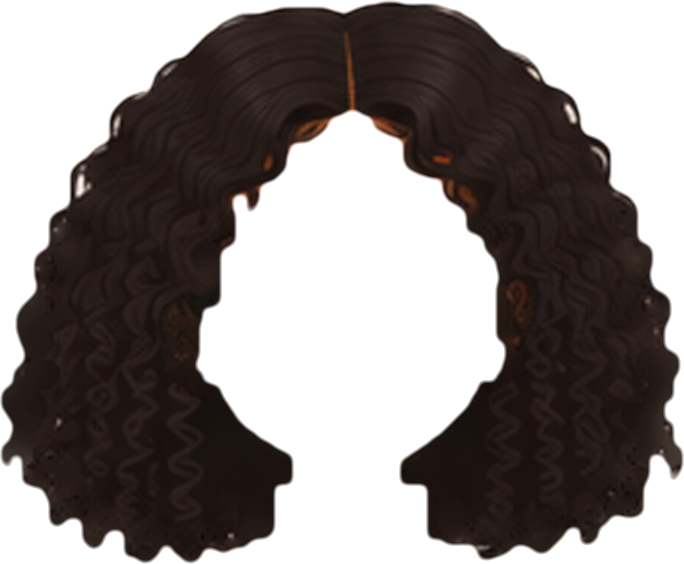
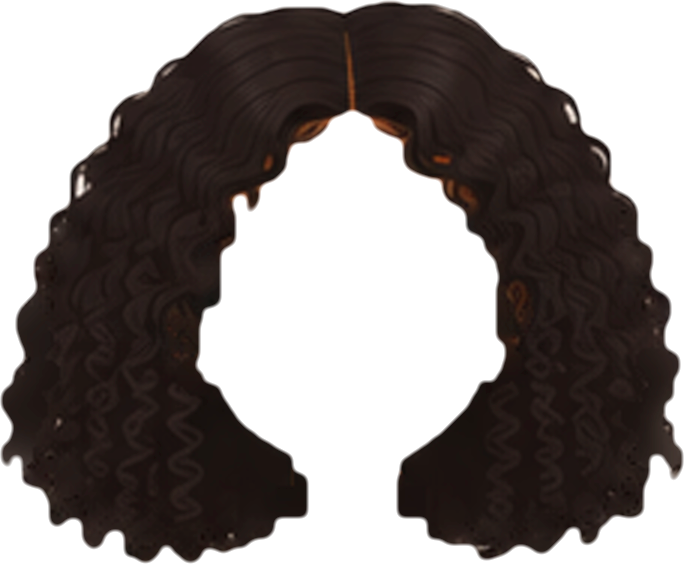
Carré bouclé : vides sous la mâchoire bouchés jusqu'au cou
Claude-Session: https://claude.ai/code/session_01Vs8WE84NbYT2qCXEQSttrj

Changed region(s): [[0.5526, 0.844, 0.6447, 0.9344], [0.3991, 0.8138, 0.4605, 0.9344]]

diff --git a/js/coiffures-art.js b/js/coiffures-art.js
@@ -1,2 +1,2 @@
 /* formes décalquées par tools/traceur-coiffures.py sur docs/references/coiffures/ — ne pas modifier à la main */
-const HAIR_ART={"longs":{"img":[61.76,56.98,276.48,530.04],"lum":[0.079,0.145,0.33],"fcut":[345,136],"main":"#2f2420","back":[["sil","M76.6,307.2 76.4,323.2 73.5,334.3 73.5,350.9 70.5,357.7 70.5,364.1 72.0,368.0 72.2,374.9 75.3,376.5 76.4,378.4 74.9,385.0 324.9,385.0 323.4,378.4 324.5,376.5 327.6,374.9 327.8,368.0 329.3,364.1 329.3,357.7 326.4,350.9 326.4,334.3 323.4,323.2 323.4,308.0 321.8,303.2 78.0,303.2Z","#211815"]],"front":[["sil","","#2f2420"]]},"carrelisse":{"img":[64.24,52.26,260.24,271.92],"lum":[0.075,0.147,0.377],"main":"#29201c","back":[["sil","","#1a1411"]],"front":[["sil","","#29201c"]]},"queuehaute2":{"img":[95.53,4.04,242.49,372.16],"lum":[0.081,0.152,0.38],"ears":1,"main":"#281e1b","back":[["sil","","#1c1613"]],"front":[["sil","","#281e1b"]]},"mechesdevant":{"img":[52.66,40.92,292.88,450.58],"lum":[0.066,0.132,0.372],"main":"#2b211d","back":[["sil","M64.8,297.4 64.8,308.7 61.3,313.7 61.3,317.6 59.6,322.1 59.6,329.7 57.9,334.2 57.9,343.6 56.1,348.1 56.1,353.9 52.7,367.2 52.7,379.7 54.2,381.9 76.9,382.1 76.9,392.1 73.5,405.3 73.5,411.1 71.7,415.7 71.7,423.3 70.0,427.8 70.0,452.7 71.7,457.3 71.9,462.3 76.5,473.3 86.7,483.9 96.9,486.5 103.4,491.3 287.7,491.3 294.2,486.5 299.6,485.7 306.5,482.2 315.0,474.0 320.8,458.8 321.1,448.6 322.8,444.1 322.8,436.5 321.1,431.9 321.1,420.9 319.3,416.3 319.3,407.0 317.6,402.5 317.6,394.9 315.9,390.3 315.9,383.8 343.8,383.6 345.3,381.5 345.3,370.6 343.6,366.1 343.6,362.0 341.9,357.4 341.9,353.3 338.4,340.1 338.4,334.2 334.9,321.0 334.9,311.7 333.2,307.2 333.2,301.3 331.7,297.4Z","#1a1411"]],"front":[["sil","","#2b211d"]]},"frangedroite":{"img":[73.46,44.39,265.15,443.65],"lum":[0.071,0.146,0.373],"main":"#291f1c","back":[["sil","M77.6,297.6 76.9,324.5 75.2,329.0 75.2,340.1 76.9,344.6 76.9,353.7 73.5,358.7 73.5,369.5 76.3,373.7 281.2,374.1 281.4,412.9 283.1,417.4 283.1,449.3 284.9,453.8 285.3,485.0 290.5,487.8 331.0,487.8 338.0,485.0 338.4,471.1 336.7,466.6 336.7,446.9 334.9,442.3 334.9,429.6 333.2,425.0 333.2,415.7 331.5,411.1 331.5,400.1 329.7,395.5 329.7,388.0 328.0,383.4 328.0,356.8 326.3,352.2 326.3,341.2 324.5,336.6 324.5,318.6 322.8,314.1 322.8,299.6 321.9,297.4Z","#191310"]],"front":[["sil","","#291f1c"]]},"chignonhaut2":{"img":[88.56,-28.55,213.5,337.75],"lum":[0.102,0.159,0.406],"ears":1,"main":"#2d241f","back":[["sil","","#241b18"]],"front":[["sil","","#2d241f"]]},"raiecotel":{"img":[45.39,39.7,268.92,446.25],"lum":[0.074,0.142,0.34],"main":"#271f1d","back":[["sil","M62.7,479.8 65.2,483.5 71.5,485.7 126.4,485.7 129.9,483.3 130.3,472.4 125.1,455.5 125.1,451.4 123.3,446.8 123.3,440.9 121.6,436.3 121.6,425.1 119.8,420.5 119.8,407.6 118.1,403.0 118.1,374.4 116.8,370.0 313.0,369.8 314.1,367.8 314.1,351.6 312.3,347.0 312.3,318.4 310.6,313.8 310.6,296.9 58.8,296.9 57.1,302.6 57.1,312.0 55.3,316.6 55.3,324.3 53.6,328.9 53.6,340.0 51.8,344.6 51.8,352.3 50.1,356.9 50.1,362.8 48.3,367.4 48.3,373.3 46.6,377.9 46.6,383.8 44.8,388.4 44.8,391.7 45.7,394.3 60.6,394.5 60.6,404.8 58.8,409.4 58.8,460.8 60.6,465.4 60.6,469.5 62.3,474.1Z","#181412"]],"front":[["sil","","#271f1d"]]},"deuxtresses":{"img":[80.41,47.89,228.48,455.17],"lum":[0.079,0.134,0.364],"ears":1,"main":"#2b221e","back":[["sil","","#1c1613"]],"front":[["sil","","#2b221e"]]},"serretete":{"img":[63.31,42.58,266.87,334.02],"lum":[0.067,0.132,0.354],"acc":1,"main":"#211a17","back":[["sil","M67.1,299.6 66.8,315.3 65.1,319.9 65.1,331.2 63.3,335.8 63.3,345.3 65.1,349.9 65.1,355.9 63.3,360.5 63.3,374.2 64.4,376.2 324.0,376.2 326.9,378.2 328.4,378.0 329.7,376.2 330.0,349.9 328.2,345.3 328.2,327.0 326.4,322.3 326.4,302.2 324.7,296.5 68.4,296.5Z","#16120f"]],"front":[["sil","","#211a17"]]},"barrette":{"img":[57.2,42.54,269.53,306.42],"lum":[0.067,0.141,0.442],"acc":1,"main":"#271e1b","back":[["sil","M57.2,297.8 57.2,307.8 59.0,312.5 59.2,317.6 63.0,329.0 67.9,337.7 82.6,342.2 96.7,344.2 105.8,347.5 115.4,347.5 120.1,349.3 123.7,348.9 125.3,345.8 283.2,345.8 290.6,342.4 305.5,340.2 309.6,337.3 315.8,335.9 318.9,332.6 321.4,325.9 324.5,322.8 324.7,317.9 326.5,313.2 326.5,297.8Z","#17120f"]],"front":[["sil","","#271e1b"]]},"raiemilieu":{"img":[55.52,32.13,284.14,450.5],"lum":[0.067,0.142,0.369],"main":"#281f1b","back":[["sil","M62.8,296.8 62.8,299.8 61.0,304.6 61.0,321.7 59.2,326.4 59.2,341.7 57.3,346.5 57.3,356.3 55.5,361.0 55.5,374.5 56.4,376.8 58.3,378.1 73.7,378.4 73.7,390.9 71.9,395.7 71.9,401.8 70.1,406.6 70.1,412.7 68.3,417.5 68.3,425.5 66.5,430.3 66.5,440.1 64.6,444.8 64.6,458.3 62.8,463.0 62.8,479.9 63.9,481.9 327.8,482.4 329.9,481.3 330.3,468.5 328.5,463.7 328.5,444.8 326.7,440.1 326.7,430.3 324.9,425.5 324.9,419.3 323.0,414.6 323.0,408.4 321.2,403.6 321.2,393.8 319.4,389.1 318.9,379.7 338.8,379.5 339.4,377.2 339.4,357.4 337.6,352.6 337.6,339.2 335.8,334.4 335.8,321.0 334.0,316.2 334.0,306.4 332.2,301.6 332.2,296.8Z","#1b1511"]],"front":[["sil","","#281f1b"]]},"queuelisse":{"img":[87.02,5.23,239.8,369.02],"lum":[0.07,0.142,0.374],"ears":1,"main":"#231b18","back":[["sil","M87.0,297.3 87.0,309.3 88.8,314.0 88.8,339.9 87.0,344.7 87.0,364.9 88.6,367.2 306.5,367.4 316.9,371.5 321.6,375.3 323.9,375.1 326.4,373.0 326.6,364.5 324.8,359.8 324.8,353.7 323.0,348.9 323.0,342.8 321.2,338.1 321.2,332.0 319.4,327.3 319.4,319.4 317.6,314.7 317.6,308.6 315.8,303.9 315.8,297.3Z","#171310"]],"front":[["sil","","#231b18"]]},"bafro":{"img":[-35.38,-42.2,441.59,404.36],"lum":[0.084,0.118,0.456],"main":"#231917","back":[["sil","","#1e1512"]],"front":[["sil","","#231917"]]},"bbantu":{"img":[64.41,16.43,267.67,201.6],"lum":[0.08,0.126,0.397],"ears":1,"main":"#241a17","back":[["sil","","#1e1513"]],"front":[["sil","","#241a17"]]},"bcarre":{"img":[-2.61,34.18,393.98,324.86],"lum":[0.081,0.118,0.414],"main":"#231816","back":[["sil","","#1c1411"]],"front":[["sil","","#231816"]]},"bchignon":{"img":[50.96,-55.67,266.11,266.68],"lum":[0.09,0.13,0.531],"ears":1,"main":"#271c19","back":[["sil","","#211715"]],"front":[["sil","","#271c19"]]},"bpuffs":{"img":[-2.22,-19.51,380.5,271.12],"lum":[0.083,0.121,0.556],"ears":1,"main":"#241a17","back":[["sil","","#1e1513"]],"front":[["sil","","#241a17"]]},"bbox":{"img":[36.18,45.08,305.45,357.81],"lum":[0.066,0.11,0.397],"main":"#261c19","back":[["sil","","#18110f"]],"front":[["sil","","#261c19"]]},"bcollees":{"img":[93.21,46.92,210.07,306.63],"lum":[0.063,0.119,0.512],"ears":1,"main":"#211816","back":[["sil","","#1a1211"]],"front":[["sil","","#211816"]]},"bdemiqueue":{"img":[-4.99,-5.51,384.79,420.41],"lum":[0.074,0.116,0.445],"main":"#211815","back":[["sil","","#1b1210"]],"front":[["sil","","#211815"]]},"bqueue":{"img":[-19.11,-13.87,331.64,450.88],"lum":[0.05,0.101,0.479],"ears":1,"main":"#1b120f","back":[["sil","","#140c0a"]],"front":[["sil","","#1b120f"]]},"blongs":{"img":[-15.94,38.56,410.84,382.62],"lum":[0.075,0.114,0.378],"main":"#261c19","back":[["sil","","#1b1310"]],"front":[["sil","","#261c19"]]},"bchignonhaut":{"img":[54.2,-60.1,265.5,238.46],"lum":[0.045,0.099,0.528],"ears":1,"main":"#1a120f","back":[["sil","","#130b09"]],"front":[["sil","","#1a120f"]]},"bchignonbas":{"img":[2.88,22.15,317.2,322.46],"lum":[0.05,0.107,0.353],"ears":1,"main":"#1e1512","back":[["sil","","#150d0b"]],"front":[["sil","","#1e1512"]]},"btwists":{"img":[44.85,44.74,293.57,371.61],"lum":[0.066,0.11,0.393],"main":"#201614","back":[["sil","","#19110f"]],"front":[["sil","","#201614"]]},"bchignonmeches":{"img":[64.47,-46.78,265.5,320.89],"lum":[0.045,0.109,0.56],"ears":1,"main":"#1c1411","back":[["sil","","#130c0a"]],"front":[["sil","","#1c1411"]]},"bwashgo":{"img":[-14.33,34.03,409.46,330.57],"lum":[0.079,0.111,0.473],"main":"#211715","back":[["sil","","#1c1411"]],"front":[["sil","","#211715"]]},"bfoulard":{"img":[17.63,-15.05,289.29,226.51],"lum":[0.077,0.119,0.521],"acc":1,"ears":1,"main":"#211815","back":[["sil","","#1c1311"]],"front":[["sil","","#211815"]]},"btressesboucles":{"img":[-20.98,37.88,402.54,365.23],"lum":[0.074,0.109,0.442],"main":"#201614","back":[["sil","","#1a1210"]],"front":[["sil","","#201614"]]},"bcourt":{"img":[49.71,4.49,284.72,212.07],"lum":[0.096,0.123,0.417],"ears":1,"main":"#261b19","back":[["sil","","#211815"]],"front":[["sil","","#261b19"]]},"bqueuehaute":{"img":[-47.74,-22.65,369.64,407.31],"lum":[0.048,0.098,0.449],"ears":1,"main":"#1a120f","back":[["sil","","#130c09"]],"front":[["sil","","#1a120f"]]},"btressesarriere":{"img":[4.41,37.45,303.72,347.3],"lum":[0.044,0.096,0.382],"ears":1,"main":"#19110e","back":[["sil","","#120b08"]],"front":[["sil","","#19110e"]]}};
+const HAIR_ART={"longs":{"img":[61.76,56.98,276.48,530.04],"lum":[0.079,0.145,0.33],"fcut":[345,136],"main":"#2f2420","back":[["sil","M76.6,307.2 76.4,323.2 73.5,334.3 73.5,350.9 70.5,357.7 70.5,364.1 72.0,368.0 72.2,374.9 75.3,376.5 76.4,378.4 74.9,385.0 324.9,385.0 323.4,378.4 324.5,376.5 327.6,374.9 327.8,368.0 329.3,364.1 329.3,357.7 326.4,350.9 326.4,334.3 323.4,323.2 323.4,308.0 321.8,303.2 78.0,303.2Z","#211815"]],"front":[["sil","","#2f2420"]]},"carrelisse":{"img":[64.24,52.26,260.24,271.92],"lum":[0.075,0.147,0.377],"main":"#29201c","back":[["sil","","#1a1411"]],"front":[["sil","","#29201c"]]},"queuehaute2":{"img":[95.53,4.04,242.49,372.16],"lum":[0.081,0.152,0.38],"ears":1,"main":"#281e1b","back":[["sil","","#1c1613"]],"front":[["sil","","#281e1b"]]},"mechesdevant":{"img":[52.66,40.92,292.88,450.58],"lum":[0.066,0.132,0.372],"main":"#2b211d","back":[["sil","M64.8,297.4 64.8,308.7 61.3,313.7 61.3,317.6 59.6,322.1 59.6,329.7 57.9,334.2 57.9,343.6 56.1,348.1 56.1,353.9 52.7,367.2 52.7,379.7 54.2,381.9 76.9,382.1 76.9,392.1 73.5,405.3 73.5,411.1 71.7,415.7 71.7,423.3 70.0,427.8 70.0,452.7 71.7,457.3 71.9,462.3 76.5,473.3 86.7,483.9 96.9,486.5 103.4,491.3 287.7,491.3 294.2,486.5 299.6,485.7 306.5,482.2 315.0,474.0 320.8,458.8 321.1,448.6 322.8,444.1 322.8,436.5 321.1,431.9 321.1,420.9 319.3,416.3 319.3,407.0 317.6,402.5 317.6,394.9 315.9,390.3 315.9,383.8 343.8,383.6 345.3,381.5 345.3,370.6 343.6,366.1 343.6,362.0 341.9,357.4 341.9,353.3 338.4,340.1 338.4,334.2 334.9,321.0 334.9,311.7 333.2,307.2 333.2,301.3 331.7,297.4Z","#1a1411"]],"front":[["sil","","#2b211d"]]},"frangedroite":{"img":[73.46,44.39,265.15,443.65],"lum":[0.071,0.146,0.373],"main":"#291f1c","back":[["sil","M77.6,297.6 76.9,324.5 75.2,329.0 75.2,340.1 76.9,344.6 76.9,353.7 73.5,358.7 73.5,369.5 76.3,373.7 281.2,374.1 281.4,412.9 283.1,417.4 283.1,449.3 284.9,453.8 285.3,485.0 290.5,487.8 331.0,487.8 338.0,485.0 338.4,471.1 336.7,466.6 336.7,446.9 334.9,442.3 334.9,429.6 333.2,425.0 333.2,415.7 331.5,411.1 331.5,400.1 329.7,395.5 329.7,388.0 328.0,383.4 328.0,356.8 326.3,352.2 326.3,341.2 324.5,336.6 324.5,318.6 322.8,314.1 322.8,299.6 321.9,297.4Z","#191310"]],"front":[["sil","","#291f1c"]]},"chignonhaut2":{"img":[88.56,-28.55,213.5,337.75],"lum":[0.102,0.159,0.406],"ears":1,"main":"#2d241f","back":[["sil","","#241b18"]],"front":[["sil","","#2d241f"]]},"raiecotel":{"img":[45.39,39.7,268.92,446.25],"lum":[0.074,0.142,0.34],"main":"#271f1d","back":[["sil","M62.7,479.8 65.2,483.5 71.5,485.7 126.4,485.7 129.9,483.3 130.3,472.4 125.1,455.5 125.1,451.4 123.3,446.8 123.3,440.9 121.6,436.3 121.6,425.1 119.8,420.5 119.8,407.6 118.1,403.0 118.1,374.4 116.8,370.0 313.0,369.8 314.1,367.8 314.1,351.6 312.3,347.0 312.3,318.4 310.6,313.8 310.6,296.9 58.8,296.9 57.1,302.6 57.1,312.0 55.3,316.6 55.3,324.3 53.6,328.9 53.6,340.0 51.8,344.6 51.8,352.3 50.1,356.9 50.1,362.8 48.3,367.4 48.3,373.3 46.6,377.9 46.6,383.8 44.8,388.4 44.8,391.7 45.7,394.3 60.6,394.5 60.6,404.8 58.8,409.4 58.8,460.8 60.6,465.4 60.6,469.5 62.3,474.1Z","#181412"]],"front":[["sil","","#271f1d"]]},"deuxtresses":{"img":[80.41,47.89,228.48,455.17],"lum":[0.079,0.134,0.364],"ears":1,"main":"#2b221e","back":[["sil","","#1c1613"]],"front":[["sil","","#2b221e"]]},"serretete":{"img":[63.31,42.58,266.87,334.02],"lum":[0.067,0.132,0.354],"acc":1,"main":"#211a17","back":[["sil","M67.1,299.6 66.8,315.3 65.1,319.9 65.1,331.2 63.3,335.8 63.3,345.3 65.1,349.9 65.1,355.9 63.3,360.5 63.3,374.2 64.4,376.2 324.0,376.2 326.9,378.2 328.4,378.0 329.7,376.2 330.0,349.9 328.2,345.3 328.2,327.0 326.4,322.3 326.4,302.2 324.7,296.5 68.4,296.5Z","#16120f"]],"front":[["sil","","#211a17"]]},"barrette":{"img":[57.2,42.54,269.53,306.42],"lum":[0.067,0.141,0.442],"acc":1,"main":"#271e1b","back":[["sil","M57.2,297.8 57.2,307.8 59.0,312.5 59.2,317.6 63.0,329.0 67.9,337.7 82.6,342.2 96.7,344.2 105.8,347.5 115.4,347.5 120.1,349.3 123.7,348.9 125.3,345.8 283.2,345.8 290.6,342.4 305.5,340.2 309.6,337.3 315.8,335.9 318.9,332.6 321.4,325.9 324.5,322.8 324.7,317.9 326.5,313.2 326.5,297.8Z","#17120f"]],"front":[["sil","","#271e1b"]]},"raiemilieu":{"img":[55.52,32.13,284.14,450.5],"lum":[0.067,0.142,0.369],"main":"#281f1b","back":[["sil","M62.8,296.8 62.8,299.8 61.0,304.6 61.0,321.7 59.2,326.4 59.2,341.7 57.3,346.5 57.3,356.3 55.5,361.0 55.5,374.5 56.4,376.8 58.3,378.1 73.7,378.4 73.7,390.9 71.9,395.7 71.9,401.8 70.1,406.6 70.1,412.7 68.3,417.5 68.3,425.5 66.5,430.3 66.5,440.1 64.6,444.8 64.6,458.3 62.8,463.0 62.8,479.9 63.9,481.9 327.8,482.4 329.9,481.3 330.3,468.5 328.5,463.7 328.5,444.8 326.7,440.1 326.7,430.3 324.9,425.5 324.9,419.3 323.0,414.6 323.0,408.4 321.2,403.6 321.2,393.8 319.4,389.1 318.9,379.7 338.8,379.5 339.4,377.2 339.4,357.4 337.6,352.6 337.6,339.2 335.8,334.4 335.8,321.0 334.0,316.2 334.0,306.4 332.2,301.6 332.2,296.8Z","#1b1511"]],"front":[["sil","","#281f1b"]]},"queuelisse":{"img":[87.02,5.23,239.8,369.02],"lum":[0.07,0.142,0.374],"ears":1,"main":"#231b18","back":[["sil","M87.0,297.3 87.0,309.3 88.8,314.0 88.8,339.9 87.0,344.7 87.0,364.9 88.6,367.2 306.5,367.4 316.9,371.5 321.6,375.3 323.9,375.1 326.4,373.0 326.6,364.5 324.8,359.8 324.8,353.7 323.0,348.9 323.0,342.8 321.2,338.1 321.2,332.0 319.4,327.3 319.4,319.4 317.6,314.7 317.6,308.6 315.8,303.9 315.8,297.3Z","#171310"]],"front":[["sil","","#231b18"]]},"bafro":{"img":[-35.38,-42.2,441.59,404.36],"lum":[0.084,0.118,0.456],"main":"#231917","back":[["sil","","#1e1512"]],"front":[["sil","","#231917"]]},"bbantu":{"img":[64.41,16.43,267.67,201.6],"lum":[0.08,0.126,0.397],"ears":1,"main":"#241a17","back":[["sil","","#1e1513"]],"front":[["sil","","#241a17"]]},"bcarre":{"img":[-2.61,34.18,393.98,324.86],"lum":[0.08,0.117,0.406],"main":"#221816","back":[["sil","","#1c1411"]],"front":[["sil","","#221816"]]},"bchignon":{"img":[50.96,-55.67,266.11,266.68],"lum":[0.09,0.13,0.531],"ears":1,"main":"#271c19","back":[["sil","","#211715"]],"front":[["sil","","#271c19"]]},"bpuffs":{"img":[-2.22,-19.51,380.5,271.12],"lum":[0.083,0.121,0.556],"ears":1,"main":"#241a17","back":[["sil","","#1e1513"]],"front":[["sil","","#241a17"]]},"bbox":{"img":[36.18,45.08,305.45,357.81],"lum":[0.066,0.11,0.397],"main":"#261c19","back":[["sil","","#18110f"]],"front":[["sil","","#261c19"]]},"bcollees":{"img":[93.21,46.92,210.07,306.63],"lum":[0.063,0.119,0.512],"ears":1,"main":"#211816","back":[["sil","","#1a1211"]],"front":[["sil","","#211816"]]},"bdemiqueue":{"img":[-4.99,-5.51,384.79,420.41],"lum":[0.074,0.116,0.445],"main":"#211815","back":[["sil","","#1b1210"]],"front":[["sil","","#211815"]]},"bqueue":{"img":[-19.11,-13.87,331.64,450.88],"lum":[0.05,0.101,0.479],"ears":1,"main":"#1b120f","back":[["sil","","#140c0a"]],"front":[["sil","","#1b120f"]]},"blongs":{"img":[-15.94,38.56,410.84,382.62],"lum":[0.075,0.114,0.378],"main":"#261c19","back":[["sil","","#1b1310"]],"front":[["sil","","#261c19"]]},"bchignonhaut":{"img":[54.2,-60.1,265.5,238.46],"lum":[0.045,0.099,0.528],"ears":1,"main":"#1a120f","back":[["sil","","#130b09"]],"front":[["sil","","#1a120f"]]},"bchignonbas":{"img":[2.88,22.15,317.2,322.46],"lum":[0.05,0.107,0.353],"ears":1,"main":"#1e1512","back":[["sil","","#150d0b"]],"front":[["sil","","#1e1512"]]},"btwists":{"img":[44.85,44.74,293.57,371.61],"lum":[0.066,0.11,0.393],"main":"#201614","back":[["sil","","#19110f"]],"front":[["sil","","#201614"]]},"bchignonmeches":{"img":[64.47,-46.78,265.5,320.89],"lum":[0.045,0.109,0.56],"ears":1,"main":"#1c1411","back":[["sil","","#130c0a"]],"front":[["sil","","#1c1411"]]},"bwashgo":{"img":[-14.33,34.03,409.46,330.57],"lum":[0.079,0.111,0.473],"main":"#211715","back":[["sil","","#1c1411"]],"front":[["sil","","#211715"]]},"bfoulard":{"img":[17.63,-15.05,289.29,226.51],"lum":[0.077,0.119,0.521],"acc":1,"ears":1,"main":"#211815","back":[["sil","","#1c1311"]],"front":[["sil","","#211815"]]},"btressesboucles":{"img":[-20.98,37.88,402.54,365.23],"lum":[0.074,0.109,0.442],"main":"#201614","back":[["sil","","#1a1210"]],"front":[["sil","","#201614"]]},"bcourt":{"img":[49.71,4.49,284.72,212.07],"lum":[0.096,0.123,0.417],"ears":1,"main":"#261b19","back":[["sil","","#211815"]],"front":[["sil","","#261b19"]]},"bqueuehaute":{"img":[-47.74,-22.65,369.64,407.31],"lum":[0.048,0.098,0.449],"ears":1,"main":"#1a120f","back":[["sil","","#130c09"]],"front":[["sil","","#1a120f"]]},"btressesarriere":{"img":[4.41,37.45,303.72,347.3],"lum":[0.044,0.096,0.382],"ears":1,"main":"#19110e","back":[["sil","","#120b08"]],"front":[["sil","","#19110e"]]}};

diff --git a/tools/traceur-coiffures.py b/tools/traceur-coiffures.py
@@ -43,7 +43,7 @@ for i, ids in enumerate([['bafro', 'bbantu', 'bcarre', 'bchignon', 'bpuffs'], ['
     for k in ids: HAIRS[k] = boucle(k, i)
 HAIRS['bbox']['bottom'] = 222
 HAIRS['bfoulard']['accessoire'] = 'foulard'
-HAIRS['bafro']['trous'] = [(140, 175, 280, 332), (225, 260, 280, 332)]   # sous la mâchoire, entre les boucles et le cou
+HAIRS['bafro']['trous'] = HAIRS['bcarre']['trous'] = [(140, 175, 280, 332), (225, 260, 280, 332)]   # sous la mâchoire, entre les boucles et le cou
 HAIRS['bbantu']['fermer'] = [(265, 310, 55, 105)]   # tempe droite, entre les deux nœuds
 for k in ['bbantu', 'bchignon', 'bpuffs', 'bcollees', 'bfoulard', 'bcourt'] + FACE6: HAIRS[k]['oreilles'] = True
 # modèles de visage : image, découpe (sourcils -> bouche), centre des yeux et menton dans la découpe, taille par rapport au visage de « longs »
